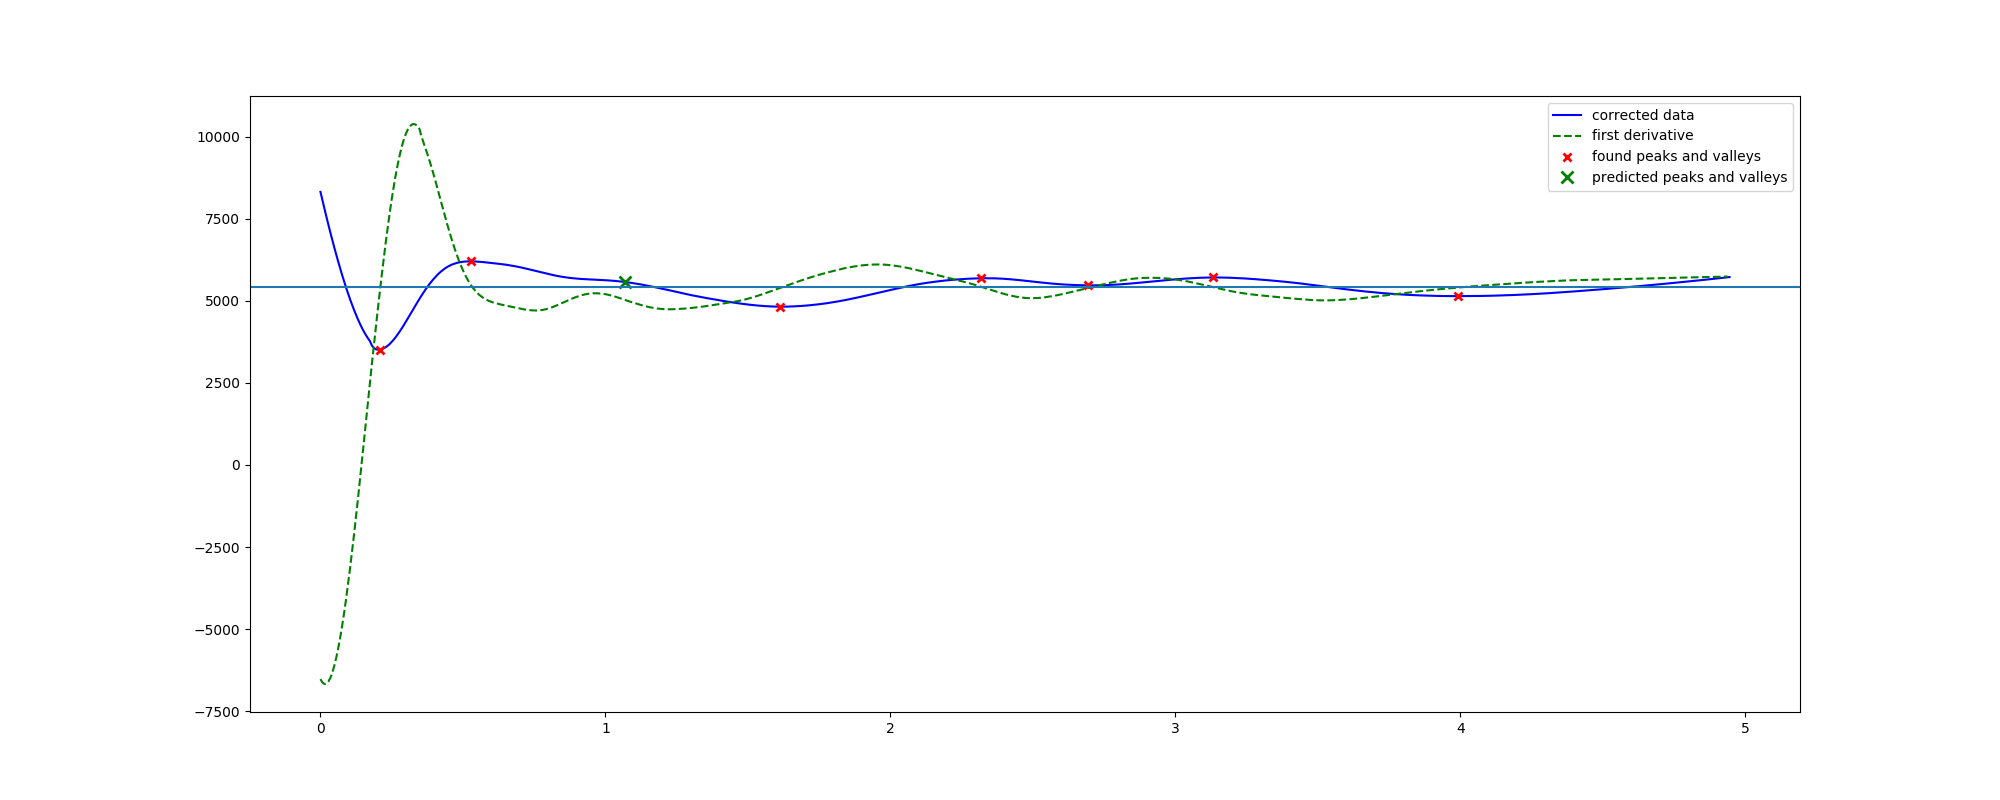
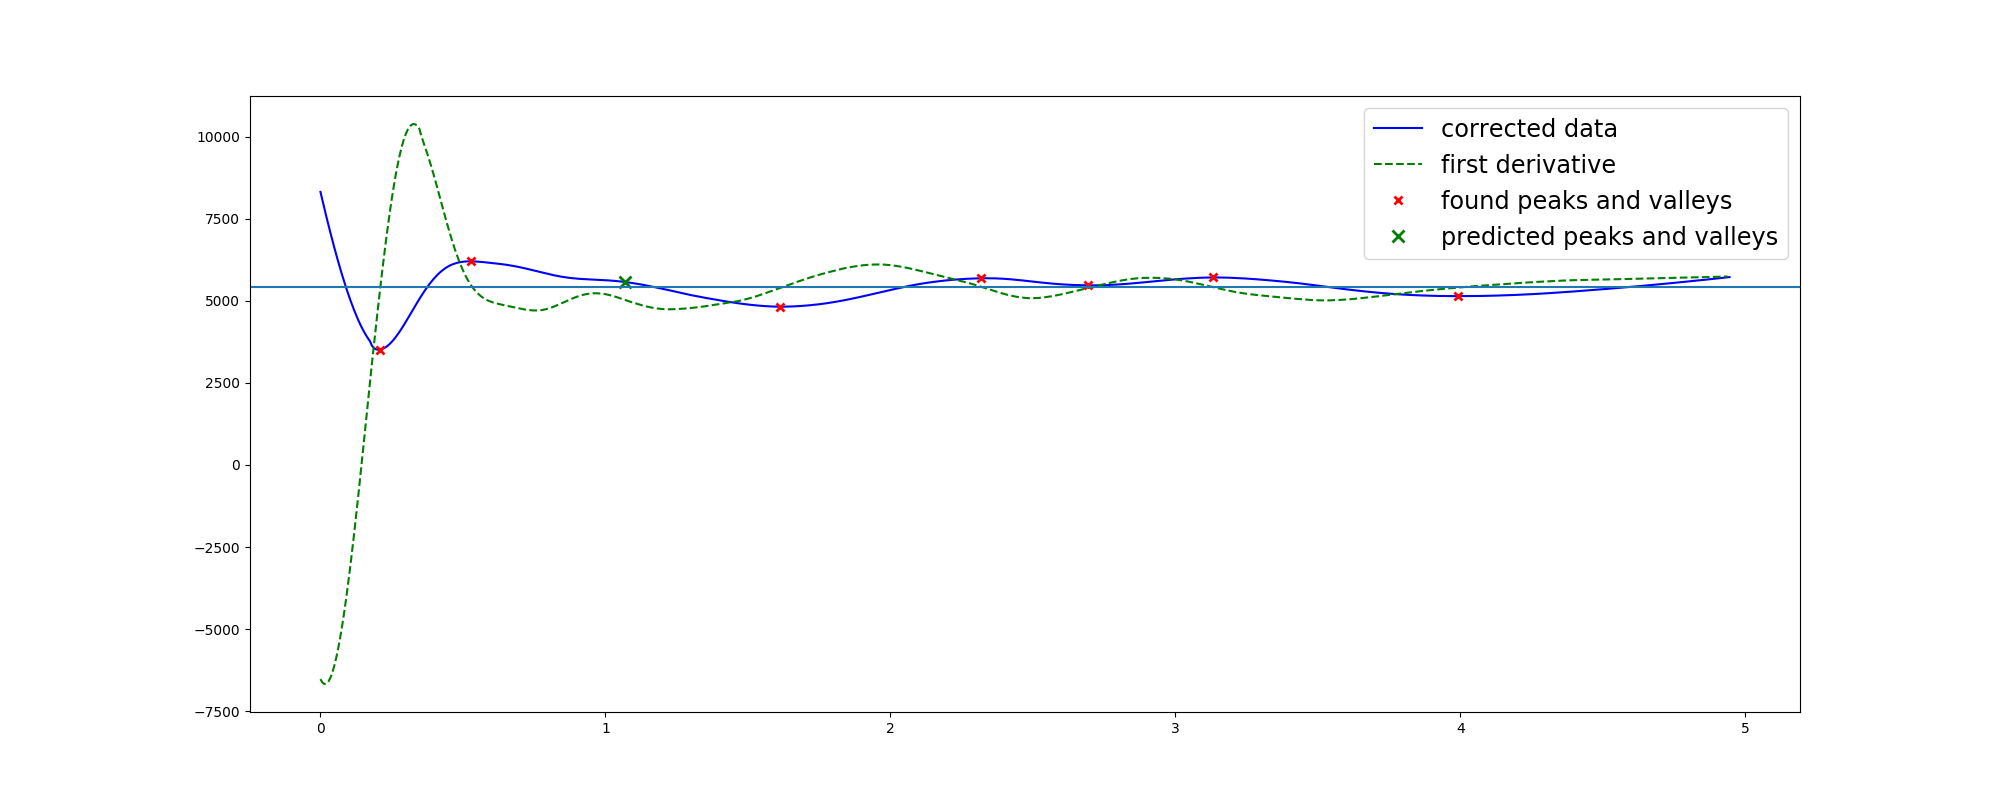
Made plots look nicer.

Changed region(s): [[0.713, 0.125, 0.899, 0.3125]]

diff --git a/python/per_calc.py b/python/per_calc.py
@@ -86,7 +86,7 @@ def find_pv(filename="021717_12h_starvation_Ca1a_Bmal1.csv"):
 		plt.plot( true_t, fit_x, 'b--', label="polynomial fit (power 3)")
 		plt.plot( true_t, inv_fit_x, '--', label="inverted polynomial fit")
 		plt.axhline( avg_y )
-		plt.legend(loc="best")
+		plt.legend(loc="best",fontsize='xx-large')
 		plt.savefig(filename.rstrip(".csv")+str(i)+"_correct.png")
 		# plt.show()
 
@@ -100,7 +100,7 @@ def find_pv(filename="021717_12h_starvation_Ca1a_Bmal1.csv"):
 		# plt.plot( true_t[new_idx], true_x[new_idx], 'gx' )
 		plt.plot( true_t[new_idx], fixed_x[new_idx], 'gx', mew=2, markersize=8, label="predicted peaks and valleys" )
 		plt.axhline( avg_y )
-		plt.legend(loc="best")
+		plt.legend(loc="best",fontsize='xx-large')
 
 		# print(true_x.shape)
 		# window_len=11
